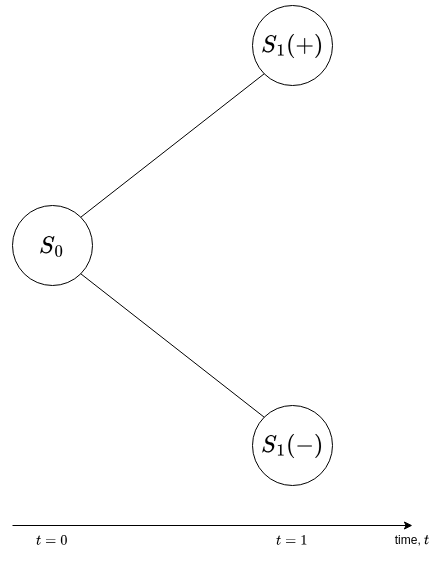
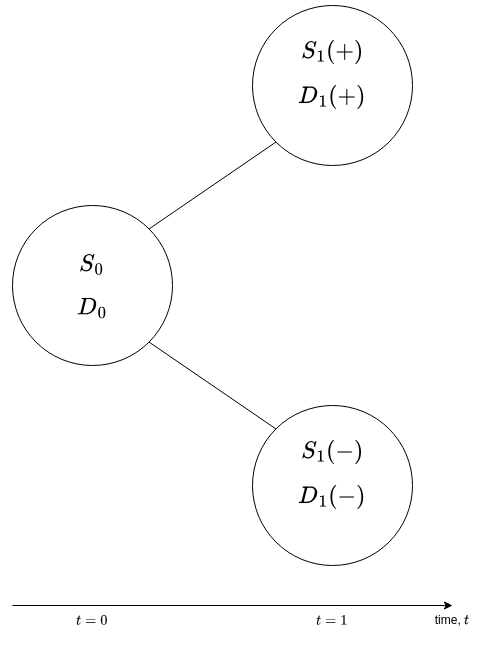
Update one-step binomial.

diff --git a/quant-library/documentation/9_options.md b/quant-library/documentation/9_options.md
@@ -309,9 +309,6 @@ $$C(t) - P(t) = S(t) - e^{-r(T-t)}K$$
   - $\text{Prob}(S_{1}=S_{1}(+)) = p$
   - $\text{Prob}(S_{1}=S_{1}(-)) = q$
   - Given there are only two outcomes: $p + q = 1$
-
-    ![One-Step Binomial Model](images/one-step-binomial-model.png "One-Step Binomial Model")
-
 - A derivative asset $D$ is also considered which has the aforementioned stock as the underlying asset and a contract expiry at time $t=1$.
 - The values that $D$ can take at time $t=1$, i.e. the payoff of the derivative, are determined by the value of the underlying stock.
   - $D_{1} = D_{1}(+)$ when $S_{1} = S_{1}(+)$
@@ -320,5 +317,11 @@ $$C(t) - P(t) = S(t) - e^{-r(T-t)}K$$
   - To apply the arbitrage principles, assumed that a risk-free investment with interest rate $r$ can be introduced.
   - Also assume that the interest rate $r$ has the same implicit unit of time and compounding period that the time unit for the binomial model has.
   - Therefore a cash sum with value $K$ invested at the risk-free rate $r$ at time $t=0$ will be worth $K(1+r)$ at time $t=1$, regardless of the value of $S_{1}$
+
+![One-Step Binomial Model](images/one-step-binomial-model.png "One-Step Binomial Model")
+
+#### Example: One-Step Binomial Model
+
+- A stock has an initial value ($t=0$) of 50 and at time $t=1$ the probability of the stock value being 65 is $p > 0$
 
 ## The Black-Scholes Option Pricing Model
